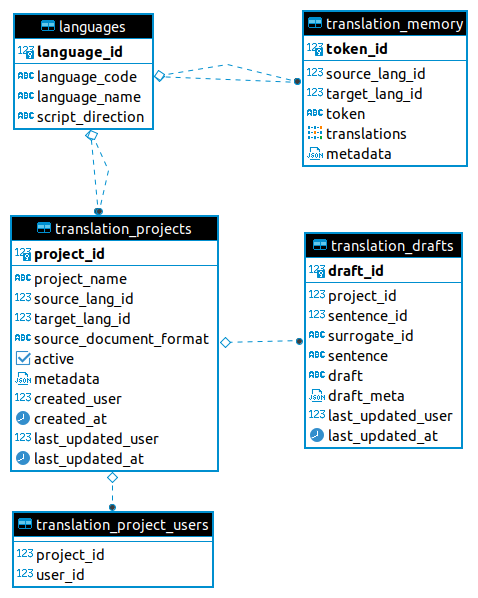
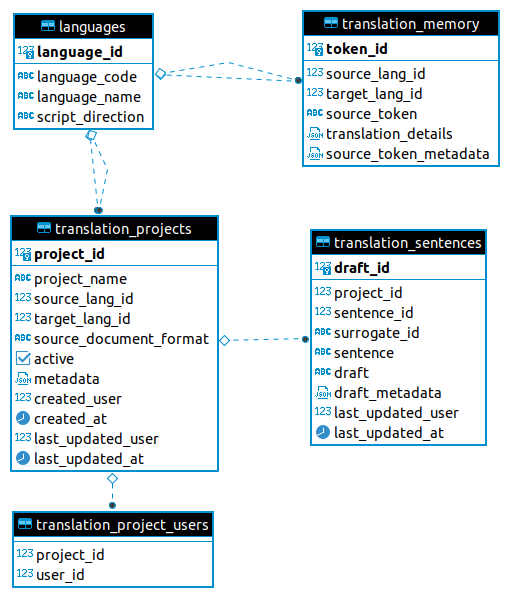
change agmt tables and fields as per suggestion from Joel

Changed region(s): [[0.0, 0.0, 0.9958, 0.8127], [0.5565, 0.3612, 0.9665, 0.7525], [0.0, 0.8428, 0.4686, 0.9933]]

diff --git a/app/crud/nlp_crud.py b/app/crud/nlp_crud.py
@@ -434,7 +434,6 @@ def export_to_json(source_lang, target_lang, sentence_list, last_modified):
                    "alignments":[]
                   }
         for meta in row.draftMeta:
-            print(meta)
             algmt = {
               "r0": list(meta[0]),
               "r1": list(meta[1]),
@@ -649,7 +648,7 @@ def save_agmt_translations(db_, project_id, token_translations, return_drafts=Tr
     '''replace tokens with provided translation in the drafts and update translation memory'''
     project_row = db_.query(db_models.TranslationProject).get(project_id)
     use_data = True
-    if "useDataForLearning" in project_row.metaData:
+    if project_row.metaData is not None and "useDataForLearning" in project_row.metaData:
         use_data = project_row.metaData['useDataForLearning']
     db_content = []
     db_content_2 = []
@@ -677,23 +676,32 @@ def save_agmt_translations(db_, project_id, token_translations, return_drafts=Tr
                 row_args = {"source_lang_id":project_row.source_lang_id,
                     "target_lang_id":project_row.target_lang_id,
                     "token":token.token,
-                    "translations":[token.translation]}
+                    "translations":{token.translation:{
+                        "frequency": len(token.occurrences)}}}
                 other_lang_metaData = db_.query(db_models.TranslationMemory.metaData).filter(
                     db_models.TranslationMemory.source_lang_id == project_row.source_lang_id,
                     db_models.TranslationMemory.token == token.token).first()
                 if other_lang_metaData:
                     row_args['metaData'] = other_lang_metaData[0]
                 memory_row = db_models.TranslationMemory(**row_args)
-                db_content_2.append(memory_row)
+                db_.add(memory_row)
+                db_.commit()
             else:
                 if token.translation not in memory_row.translations:
-                    memory_row.translations.append(token.translation)
+                    memory_row.translations[token.translation] = {
+                        "frequency": len(token.occurrences)}
                     flag_modified(memory_row, "translations")
-                    db_content_2.append(memory_row)
+                    db_.add(memory_row)
+                    db_.commit()
+                else:
+                    old_freq = memory_row.translations[token.translation]['frequency']
+                    memory_row.translations[token.translation] = {
+                        "frequency": old_freq+len(token.occurrences)}
+                    flag_modified(memory_row, "translations")
+                    db_.add(memory_row)
+                    db_.commit()
     project_row.updatedUser = user_id
     db_.add_all(db_content)
-    if use_data:
-        db_.add_all(db_content_2)
     db_.add(project_row)
     db_.commit()
     if return_drafts:
@@ -728,7 +736,7 @@ def obtain_agmt_draft(db_:Session, project_id, books, sentence_id_list, sentence
         sentence_query = sentence_query.filter(
             db_models.TranslationDraft.sentenceId.in_(sentence_id_list))
     draft_rows = sentence_query.all()
-    [print(row.__dict__) for row in draft_rows]
+    [row.__dict__ for row in draft_rows]
     if fill_suggestions:
         args = {"db_":db_, "sentence_list":draft_rows,
             "source_lang":project_row.sourceLanguage.code,
@@ -753,7 +761,7 @@ def obtain_agmt_draft(db_:Session, project_id, books, sentence_id_list, sentence
         if commit_required:
             db_.commit()
     if output_format.value == "text":
-        [print(row.__dict__) for row in draft_rows]
+        [row.__dict__ for row in draft_rows]
         return draft_rows
     if output_format.value == "usfm":
         return create_usfm(draft_rows)

diff --git a/app/db_models.py b/app/db_models.py
@@ -296,7 +296,7 @@ class TranslationProject(Base): # pylint: disable=too-few-public-methods
 
 class TranslationDraft(Base): # pylint: disable=too-few-public-methods
     '''Corresponds to table translation_drafts in vachan DB used by Autographa MT mode'''
-    __tablename__ = 'translation_drafts'
+    __tablename__ = 'translation_sentences'
 
     draftId = Column('draft_id', Integer, primary_key=True)
     @declared_attr
@@ -311,7 +311,7 @@ class TranslationDraft(Base): # pylint: disable=too-few-public-methods
     surrogateId = Column('surrogate_id', String)
     sentence = Column('sentence', String)
     draft = Column('draft', String)
-    draftMeta = Column('draft_meta', JSON)
+    draftMeta = Column('draft_metadata', JSON)
     updatedUser = Column('last_updated_user', Integer)
     updateTime = Column('last_updated_at', DateTime, onupdate=func.now())
 
@@ -336,6 +336,6 @@ class TranslationMemory(Base):  # pylint: disable=too-few-public-methods
     def target_language(cls): # pylint: disable=E0213
         '''For modelling the targetLanguage field in this class'''
         return relationship(Language, foreign_keys=cls.target_lang_id, uselist=False)
-    token = Column('token', String)
-    translations = Column('translations', ARRAY(String))
-    metaData = Column('metadata', JSON)
+    token = Column('source_token', String)
+    translations = Column('translation_details', JSON)
+    metaData = Column('source_token_metadata', JSON)

diff --git a/app/schemas_nlp.py b/app/schemas_nlp.py
@@ -76,7 +76,8 @@ class Token(BaseModel):
     '''Response object for token'''
     token: str = Field(..., example='इब्राहीम')
     occurrences: List[TokenOccurence]
-    translations: List[str] = Field(..., example=['അബ്രാഹാമിന്റെ', 'അബ്രാഹാം'])
+    translations: dict = Field(...,
+        example={'അബ്രാഹാമിന്റെ':{"frequency":10}, 'അബ്രാഹാം':{"frequency":24}})
     metaData: dict = Field(None, example={"translationWord": "Abraham",
     	"link": "https://git.door43.org/unfoldingWord/en_tw/src/branch/master/bible/names/abraham.md"})
     class Config: # pylint: disable=too-few-public-methods
